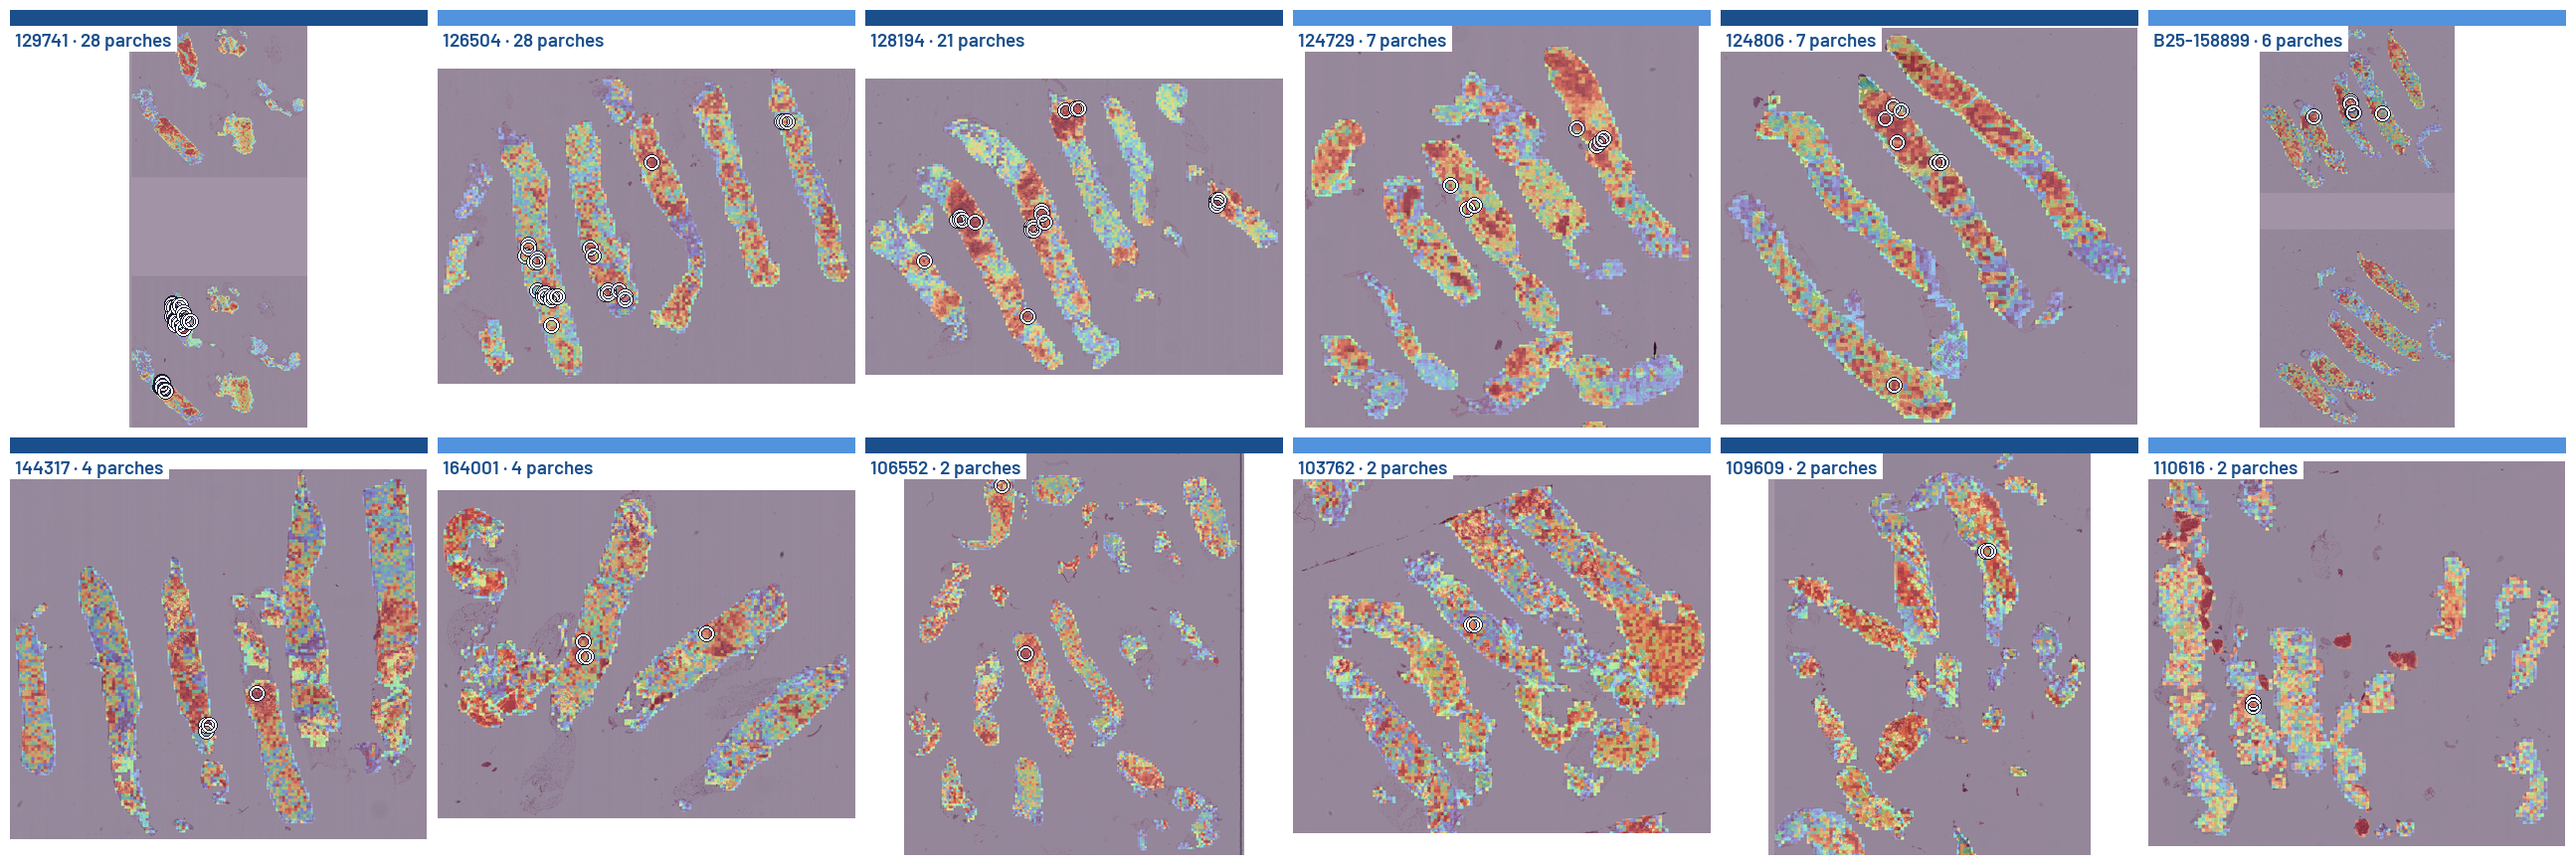
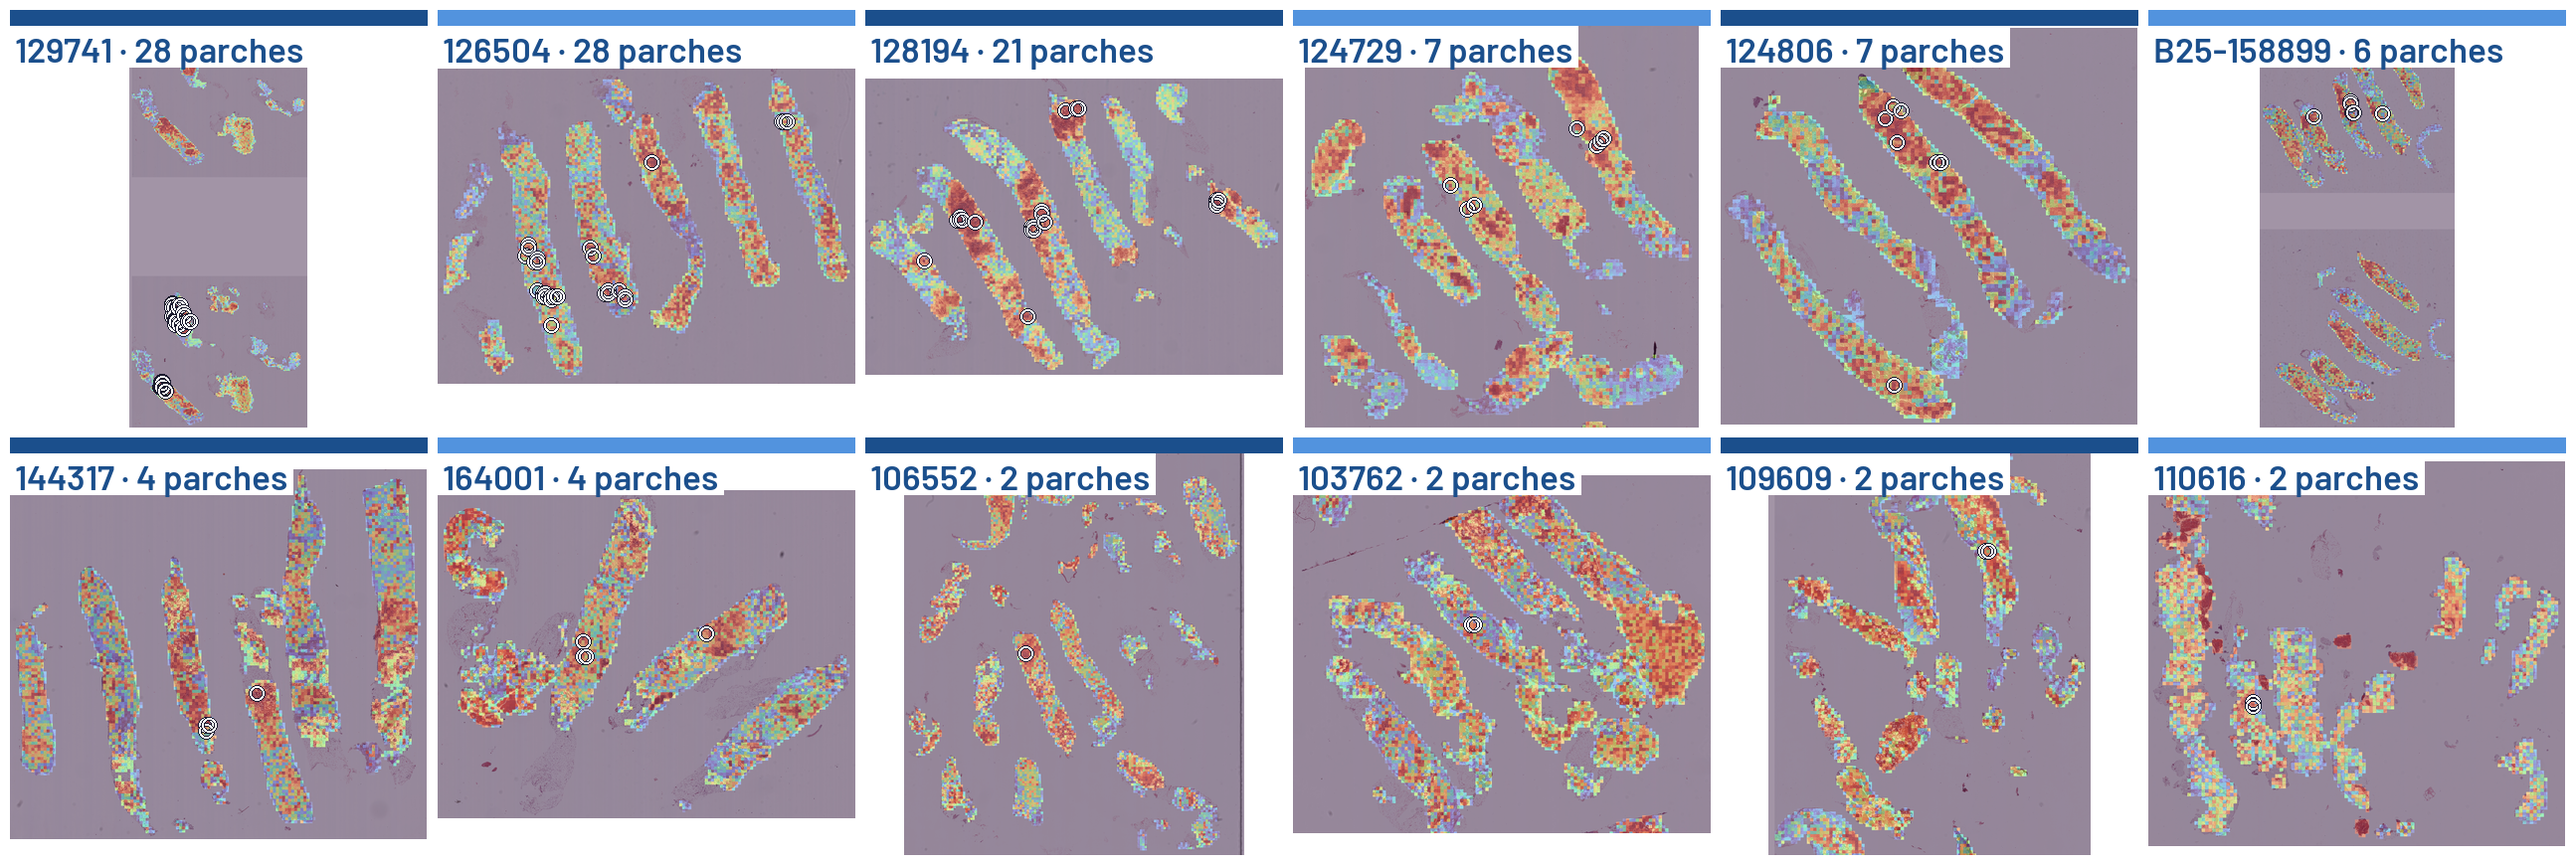
fix(b9): el mosaico de atencion, de 4,4 a 8,1 pt
TILE // 12 en vez de // 22: el rotulo va quemado, asi que su tamano en la
lamina es px * ancho_in * 72 / W, y 19 px sobre 2590 a 8,30" daban 4,4 pt,
bajo el minimo de 7 pt del template.

Sin riesgo de geometria: la fuente no entra en W ni en H porque el rotulo se
dibuja DENTRO del tile. Sale 2590x870, identico, aspecto 2,98, y el recuadro
del rotulo mas largo mide 362 px en un tile de 420. Vuelve a verificar sus 113
parches al regenerar.

diff --git a/scripts/b9_mapas_atencion_12.py b/scripts/b9_mapas_atencion_12.py
@@ -110,7 +110,12 @@ def mosaico(paneles, path):
     H = filas * (TILE + pad) + pad
     hoja = Image.new("RGB", (W, H), FONDO)
     d = ImageDraw.Draw(hoja)
-    f = fuente(max(13, TILE // 22), bold=True)
+    # TILE // 12 y no // 22: el rótulo va QUEMADO en el PNG, así que su tamaño en la
+    # lámina es px * ancho_en_pulgadas * 72 / W. A 8,30" sobre 2590 px, 19 px daban
+    # 4,4 pt, bajo el mínimo de 7 pt del template; 35 px dan 8,1
+    # ([[png-rotulos-quemados-pierden-pt]]). La fuente no entra en W ni en H (el rótulo
+    # se dibuja DENTRO del tile), así que el aspecto 2,98 y los 8,30" no se mueven.
+    f = fuente(max(13, TILE // 12), bold=True)
     for i, (slide, im, marcas, n) in enumerate(paneles):
         rr, cc = divmod(i, COLS)
         x, y = pad + cc * (TILE + pad), pad + rr * (TILE + pad)
